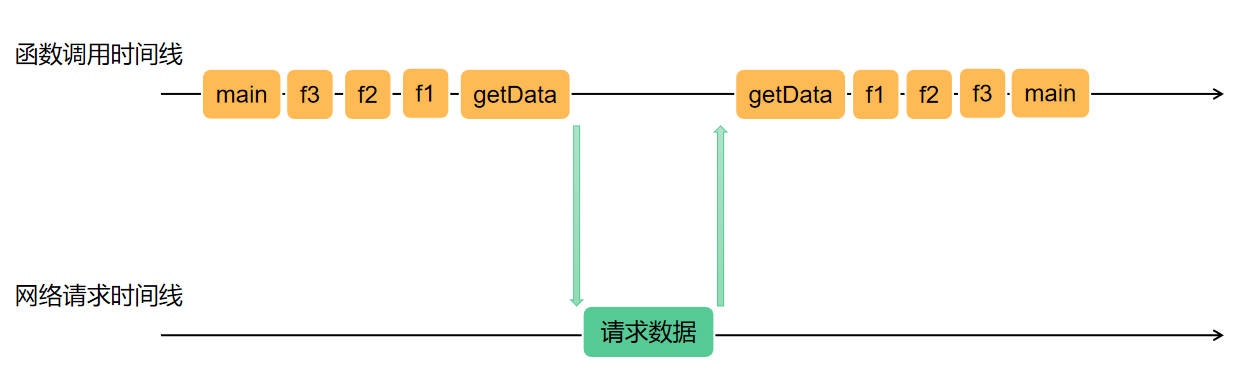
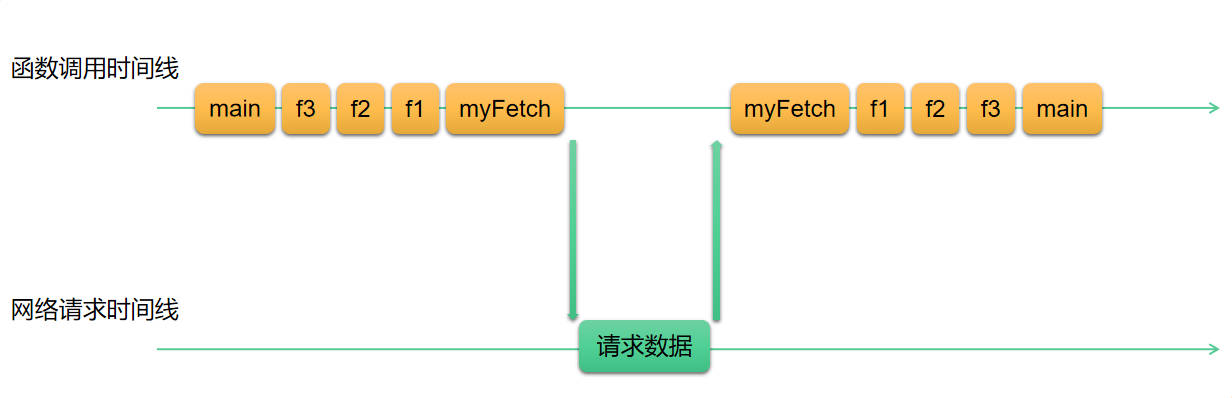
feat: 消除异步传染性

Changed region(s): [[0.0, 0.0933, 0.987, 0.9637], [0.0, 0.715, 0.1542, 0.8083]]

diff --git a/docs/demo/solveAsyncInfection/main.md b/docs/demo/solveAsyncInfection/main.md
@@ -5,6 +5,8 @@ import asyncInfection from "./asyncInfection.vue"
 import demo from "./index.vue"
 import timeLine from "./assets/timeLine.jpg"
 import timeLine_dark from "./assets/timeLine_dark.jpg"
+import thinking from "./assets/thinking.jpg"
+import thinking_dark from "./assets/thinking_dark.jpg"
 </script>
 
 ## 什么是异步传染？
@@ -23,87 +25,160 @@ import timeLine_dark from "./assets/timeLine_dark.jpg"
 所以影响了 **controlLoading(loading 控制)** 方法，将该方法也`污染`成为`异步方法`，进而影响到了 **btnClick(点击事件)** 方法，
 将其也影响成为`异步方法`。
 
-> controlLoading 是我 <span class="cor-wa">故意</span> 加在当前函数中的为了解释异步影响，别让大家觉得这个博主写的代码这么。。。。
+> controlLoading 是我<span class="cor-wa">故意</span>加在当前函数中的为了解释异步影响，别让大家觉得这个博主写的代码这么。。。。
 
 这样的污染看起来，在代码层面理解确实是挺正常的，中间有异步方法那么就把这个方法放到微队列中执行等待结果在返回主线程处理。很正确！但是总觉得这玩意有点恶心。。。
 
 尤其是如果一个方法在 **纯函数** 中的话，这样的调用就真的让人难受的一匹。
 
-写个伪代码展示一下
+## 示例代码
 
-::: details 点击展开
+写个示例代码展示一下
 
-这种操作 一个 **getData** 方法 影响调用它的 **f1** **f2** **f3** **main** 通通变成异步方法
+这种操作 一个 **myFetch** 方法 影响调用它的 **f1** **f2** **f3** **main** 通通变成异步方法
 
 ```javascript
-async function getData() {
-  console.log("getData");
-  const data = await fetch("https://xxx.xxx.xxx/api/data");
-  console.log("getData已经获取到数据");
+// 异步方法
+myFetch = async () => {
+  const data = await new Promise((resolve, reject) => {
+    setTimeout(() => resolve("这里返回数据"), 1000);
+  });
   return data;
-}
-
+};
+// 被传染的同步函数
 async function f1() {
-  console.log("f1");
-  return await getData();
+  return await myFetch();
 }
-
+// 被传染的同步函数
 async function f2() {
-  console.log("f2");
   return await f1();
 }
-
+// 被传染的同步函数
 async function f3() {
-  console.log("f3");
   return await f2();
 }
-
+// 被传染的同步函数
 async function main() {
-  console.log("main");
   const data = await f3();
-  console.log("data", data);
+  console.log(data);
 }
-
 main();
 ```
 
-:::
 <span class="cor-tip">这就叫异步传染</span>
 
 ## 原因解释
 
-先看看上面的伪代码的按照时间线调用顺序。
+先看看上面的示例代码按照时间线调用情况。
 
 <PicViewer title="时间线调用" alt=" " :src="timeLine" :darkSrc="timeLine_dark"></PicViewer>
 
-> 调用栈使用情况是 **main->f3->f2->f1->getData** 在这出现异步操作。  
+> 调用栈使用情况是 **main->f3->f2->f1->myFetch** 在这出现异步操作。  
 > 然后等异步结束之后。  
-> 执行栈在一步一步 **getData->f1->f2->f3->main** 释放执行栈空间。
+> 执行栈在一步一步 **myFetch->f1->f2->f3->main** 释放执行栈空间。
 
-但是我们要消除异步的传染性，首先就得把当前函数变成`同步函数`。  
-但是`同步函数`的话将不会等待异步处理，所以我们要开始讲解了。。。
+中间的请求数据操作会导致<span class="cor-tip">时间线</span>后面的函数需要等待才能执行，  
+所以要解决异步处理就需要 **重新设计异步流程**
 
-## 首先是设计思维
+## 设计
 
-遇到这样的要求，其实路最重要。
+遇到这样的问题，理清楚思路才好解决问题。
 
-- 首先第一点，处理异步
-  - 遇到异步的时候应该停止，并且告诉使用者这是个同步函数，那么这个操作就要报错处理
-  - 但是报错处理时候，我们仍然还是要发异步请求
-  - 虽然报错导致函数停止在 getData 函数中，但是看图 如果异步请求发送了 那么网络请求就会继续走完他的生命周期
-  - 然后等到网络请求成功之后将结果保存在一个变量中
-- 第二点，处理报错
-  - 通过报错返回的内容控制函数重新执行
-  -
+- 目的 ~~ 让`异步函数`转变为可以通过`同步`调用
+- 问题
+  1. 异步需要等待如何同步调用
+     - 首先执行异步函数 不等待结果
+     - 然后再异步调用成功之后再次执行原函数
+  2. 如何执型异步函数但是不等待
+     - 第一次处理时候 **发送请求**
+     - 然后通过<span class="cor-da">报错</span>,来<span class="cor-wa">取消</span>之前函数调用
+  3. 对宿主环境产生影响
+     - 提供一个新的执行环境
+     - 保存原有 **myFetch** 函数实现
+     - 重新实现 **myFetch** 函数 并调用 原有 **myFetch** 发送请求
+  4. 如何取得数据
+     - 等待请求结果出现时 将其 _缓存_ 到一个地方
+     - 再次调再次执行原函数<span class="cor-tip">命中</span>缓存直接返回
 
-<demo></demo>
+> 这样就实现了同步调用异步方法,虽然还是要等待请求结果但是同步处理的纯函数就不需要书写 **async** **await** 关键字了。
 
-## 代码实现
+<PicViewer title="思路流程" alt=" " :src="thinking" :darkSrc="thinking_dark"></PicViewer>
 
-::: details 点击展开
+## 示例代码实现
 
-<<< @/demo/solveAsyncInfection/index.vue
+```javascript
+// 注意这里是let声明 后面要变更的
+let myFetch = () => {
+  return new Promise((resolve, reject) => {
+    setTimeout(() => resolve("这里成功返回数据"), 1000);
+  });
+};
+function m1() {
+  return myFetch();
+}
+function m2() {
+  return m1();
+}
 
-:::
+function m3() {
+  return m2();
+}
+function main() {
+  console.log("main调用了");
+  const { status, data } = m3();
+  console.log("data", data, status);
+}
+// run函数提供执行环境
+function run(func) {
+  // 定义cache来进行缓存
+  const cache = {
+    status: "pending",
+    data: null,
+    err: null,
+  };
+  // 将原来异步函数进行缓存
+  const beforeAsyncFn = myFetch;
+  // 重写myFetch函数
+  myFetch = (...args) => {
+    // 如果发现状态已经不是pending 就返回
+    if (cache.status !== "pending") return cache;
+    // 通过抛出错误来执行异步数据请求
+    throw beforeAsyncFn(...args)
+      .then((res) => {
+        // 成功更改缓存状态
+        cache.status = "fulfilled";
+        cache.data = res;
+      })
+      .catch((err) => {
+        // 失败改变缓存状态
+        cache.status = "rejected";
+        cache.err = err;
+      });
+  };
+  try {
+    // 使用try 调用原函数 捕获错误
+    func();
+  } catch (err) {
+    // 判断返回值是否是是promise
+    // 这个判断并不严谨因为有些异步函数并不都是promise 这个具体情况要针对性看待
+    if (err instanceof Promise) {
+      // 当通过异常抛出的 promise 发生回调 重新调用 原函数
+      err.finally(() => {
+        func();
+        // 还原原始请求方法 不造成污染
+        myFetch = beforeAsyncFn;
+      });
+    }
+  }
+}
+// 运行
+run(main);
+```
+
+## 优缺点
+
+<span class="cor-tip">优点</span>：编写代码时直接编写同步代码即可，不需要使用 **async、await**  
+<span class="cor-da">缺点</span>：函数需要多次重复执行，**async、await** 只需要执行一次。假如函数有其他大量计算，将影响性能  
+<span class="cor-wa">共同点</span>：仍然是异步有结果后，才能真正进行下一步操作
 
 [视频讲解](https://www.douyin.com/video/7260884471166094603)
